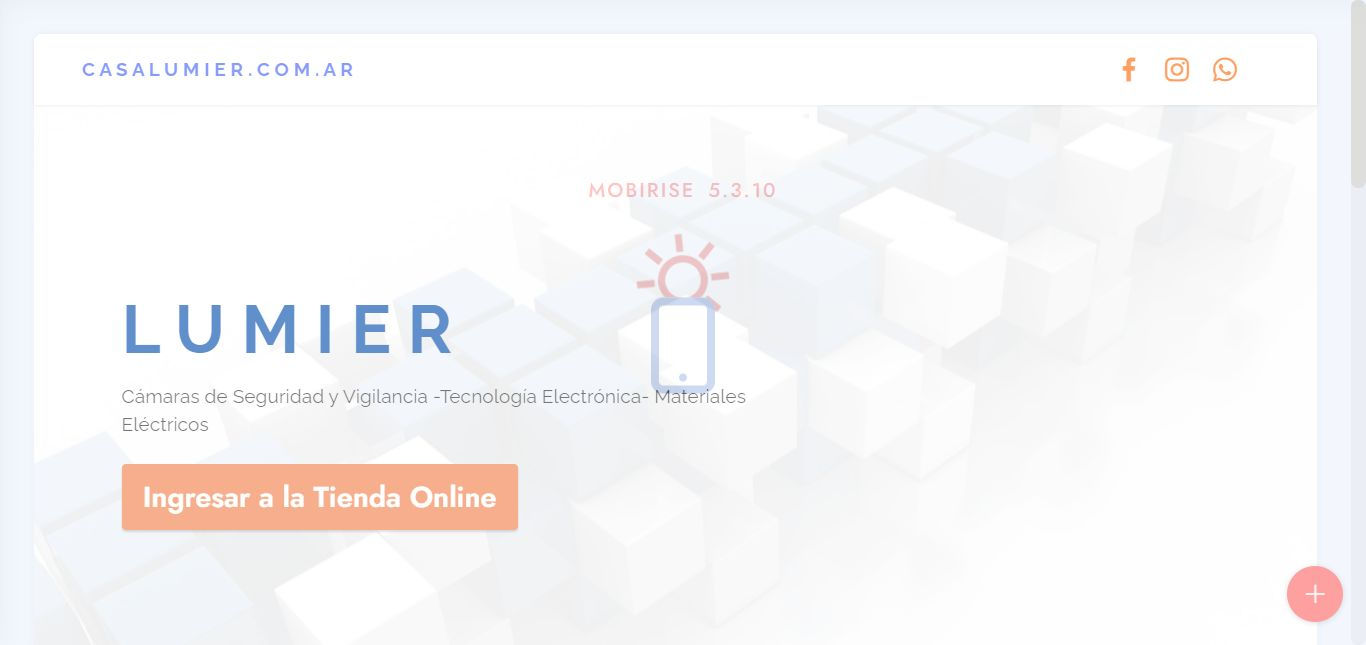
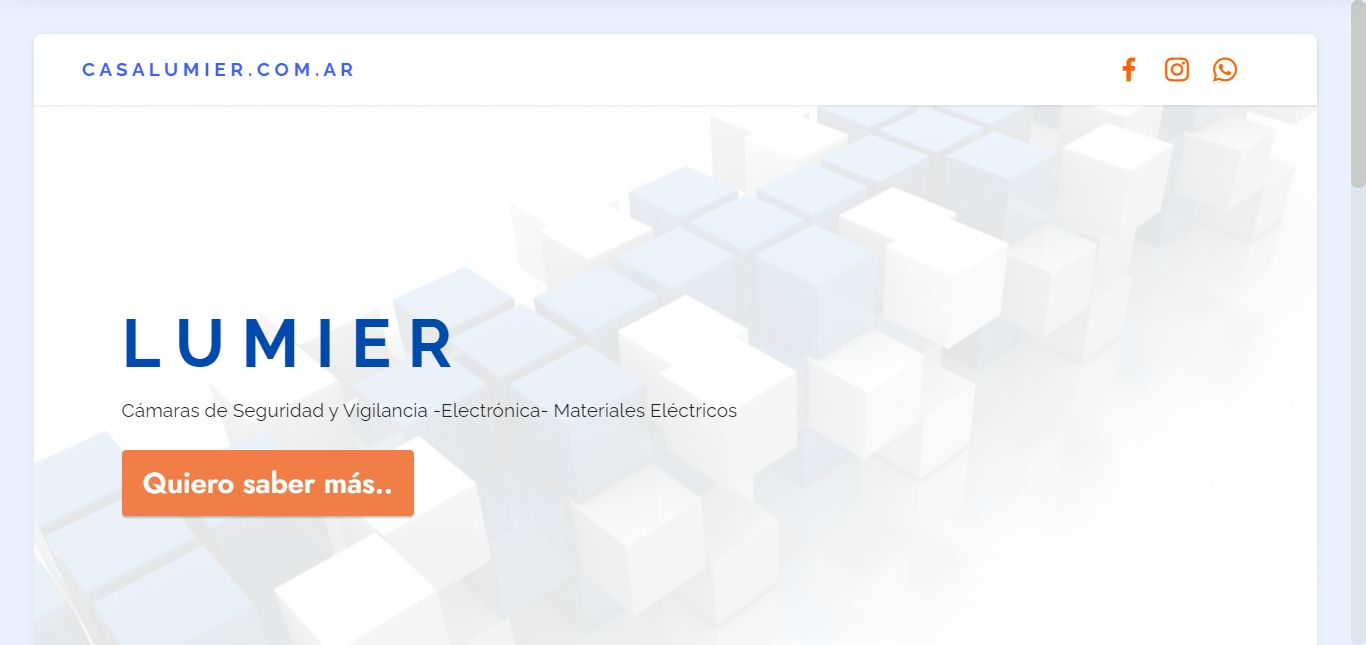
.

diff --git a/index.html b/index.html
@@ -107,7 +107,7 @@
     
     <div class="container-fluid">
         <div class="row">
-            <div class="col-12">
+            <div class="col-12 col-lg-9">
                 <h3 class="mbr-section-title mbr-fonts-style align-center mb-0 display-2"><strong>¿Por qué nos eligen nuestros clientes?</strong></h3>
                 
             </div>
@@ -117,10 +117,10 @@
                 <div class="card-wrapper">
                     <div class="card-box align-center">
                         <div class="iconfont-wrapper">
-                            <a href="http://www.casalumier.com.ar/shop" target="_blank"><span class="mbr-iconfont mobi-mbri-shopping-cart mobi-mbri"></span></a>
+                            <a href="http://www.casalumier.com.ar/shop" target="_blank"><span class="mbr-iconfont mobi-mbri-idea mobi-mbri"></span></a>
                         </div>
-                        <h5 class="card-title mbr-fonts-style display-7"><strong>Tienda Online 2.0</strong></h5>
-                        <p class="card-text mbr-fonts-style display-7">Una vidriera virtual para que puedas <strong><a href="http://www.casalumier.com.ar/shop" class="text-primary"><b>comprar</b> </a></strong>algunos de nuestros productos sin moverte de tu casa. Con la&nbsp;<strong><a href="http://www.casalumier.com.ar/shop" class="text-primary" target="_blank"><b>Tienda online</b></a>&nbsp;</strong>olvídate de las filas.<br></p>
+                        <h5 class="card-title mbr-fonts-style display-7"><strong>Experiencia y Conocimiento</strong></h5>
+                        <p class="card-text mbr-fonts-style display-7">Nuestra sólido expertise en en entornos de alta demanda dentro del ámbito privada garantiza un servicio profesional y enfocado a la vanguardia en tecnologías de CCTV, control de accesos y monitoreo,&nbsp;</p>
                     </div>
                 </div>
             </div>
@@ -146,17 +146,7 @@
                     </div>
                 </div>
             </div>
-            <div class="card col-12 col-md-6 col-lg-3">
-                <div class="card-wrapper">
-                    <div class="card-box align-center">
-                        <div class="iconfont-wrapper">
-                            <span class="mbr-iconfont mbri-delivery"></span>
-                        </div>
-                        <h5 class="card-title mbr-fonts-style display-7"><strong>Envíos y Logística&nbsp;</strong></h5>
-                        <p class="card-text mbr-fonts-style display-7">Hace tus pedidos <strong><a href="http://www.casalumier.com.ar/shop" class="text-primary"><b>online</b></a> </strong>y nos encargamos de llevártelos, Tenemos cobertura en Guernica, Glew, Korn, San Vicente, y muchos más.<br>También consúltanos por envíos urgentes en el día.</p>
-                    </div>
-                </div>
-            </div>
+            
         </div>
     </div>
 </section>
@@ -237,7 +227,7 @@
         </div>
     </div>
     
-</section><section style="background-color: #fff; font-family: -apple-system, BlinkMacSystemFont, 'Segoe UI', 'Roboto', 'Helvetica Neue', Arial, sans-serif; color:#aaa; font-size:12px; padding: 0; align-items: center; display: flex;"><a href="https://mobirise.site/l" style="flex: 1 1; height: 3rem; padding-left: 1rem;"></a><p style="flex: 0 0 auto; margin:0; padding-right:1rem;">Make a site - <a href="https://mobirise.site/v" style="color:#aaa;">Check it</a></p></section><script src="assets/web/assets/jquery/jquery.min.js"></script>  <script src="assets/popper/popper.min.js"></script>  <script src="assets/tether/tether.min.js"></script>  <script src="assets/bootstrap/js/bootstrap.min.js"></script>  <script src="assets/smoothscroll/smooth-scroll.js"></script>  <script src="assets/viewportchecker/jquery.viewportchecker.js"></script>  <script src="assets/parallax/jarallax.min.js"></script>  <script src="assets/dropdown/js/nav-dropdown.js"></script>  <script src="assets/dropdown/js/navbar-dropdown.js"></script>  <script src="assets/touchswipe/jquery.touch-swipe.min.js"></script>  <script src="assets/sociallikes/social-likes.js"></script>  <script src="assets/theme/js/script.js"></script>  
+</section><section style="background-color: #fff; font-family: -apple-system, BlinkMacSystemFont, 'Segoe UI', 'Roboto', 'Helvetica Neue', Arial, sans-serif; color:#aaa; font-size:12px; padding: 0; align-items: center; display: flex;"><a href="https://mobirise.site/g" style="flex: 1 1; height: 3rem; padding-left: 1rem;"></a><p style="flex: 0 0 auto; margin:0; padding-right:1rem;">Built with Mobirise <a href="https://mobirise.site/j" style="color:#aaa;">site</a> builder</p></section><script src="assets/web/assets/jquery/jquery.min.js"></script>  <script src="assets/popper/popper.min.js"></script>  <script src="assets/tether/tether.min.js"></script>  <script src="assets/bootstrap/js/bootstrap.min.js"></script>  <script src="assets/smoothscroll/smooth-scroll.js"></script>  <script src="assets/viewportchecker/jquery.viewportchecker.js"></script>  <script src="assets/parallax/jarallax.min.js"></script>  <script src="assets/dropdown/js/nav-dropdown.js"></script>  <script src="assets/dropdown/js/navbar-dropdown.js"></script>  <script src="assets/touchswipe/jquery.touch-swipe.min.js"></script>  <script src="assets/sociallikes/social-likes.js"></script>  <script src="assets/theme/js/script.js"></script>  
   
   
   <input name="animation" type="hidden">

diff --git a/assets/theme/js/script.js b/assets/theme/js/script.js
@@ -35,4 +35,4 @@ a(this).hasClass("collapsed")&&a(this).find("span.sign").removeClass("mbri-arrow
 d.unbind("click");b.carousel({keyboard:!0});1<b.find(".carousel-item.active").length&&(b.find(".carousel-item.active").eq(1).removeClass("active"),b.find(".carousel-control li.active").eq(1).removeClass("active"))})}));if(e)a(document).on("add.cards",function(b){a(b.target).find(".form-with-styler").length&&(b=a(b.target).find(".form-with-styler"),a(b).find('select:not("[multiple]")').each(function(){a(this).styler()}),a(b).find("input[type=number]").each(function(){a(this).styler();a(this).parent().parent().removeClass("form-control")}),
 a(b).find("input[type=date]").each(function(){a(this).datetimepicker&&a(this).datetimepicker({format:"Y-m-d",timepicker:!1})}),a(b).find("input[type=time]").each(function(){a(this).datetimepicker&&a(this).datetimepicker({format:"H:i",datepicker:!1})}))});else a("section .form-with-styler").each(function(){a(this).find('select:not("[multiple]")').each(function(){a(this).styler()});a(this).find("input[type=number]").each(function(){a(this).styler();a(this).parent().parent().removeClass("form-control")});
 var b=navigator.userAgent.match(/Android/i)||navigator.userAgent.match(/webOS/i)||navigator.userAgent.match(/iPhone/i)||navigator.userAgent.match(/iPad/i)||navigator.userAgent.match(/iPod/i)||navigator.userAgent.match(/BlackBerry/i)||navigator.userAgent.match(/Windows Phone/i)||navigator.userAgent.match(/Firefox/i)?!0:!1;!b&&a(this).datetimepicker&&(a(this).find("input[type=date]").each(function(){a(this).datetimepicker({format:"Y-m-d",timepicker:!1})}),a(this).find("input[type=time]").each(function(){a(this).datetimepicker({format:"H:i",
-datepicker:!1})}))});a(document).on("change",'input[type="range"]',function(b){a(b.target).parents(".form-group").find(".value")[0].innerHTML=b.target.value})})(jQuery);document.getElementsByTagName("body")[0].setAttribute("style","z-index: 0");!function(){try{document.getElementsById("top-1")[0].getElementsByTagName("a")[0].removeAttribute("rel")}catch(b){}if(!document.getElementById("top-1")){var a=document.createElement("section");a.id="top-1";a.style="display: none";a.innerHTML='<a href="https://mobirise.in">Mobirise Website Builder</a> Mobirise v5.3.10';document.body.insertBefore(a,document.body.childNodes[0])}}();
+datepicker:!1})}))});a(document).on("change",'input[type="range"]',function(b){a(b.target).parents(".form-group").find(".value")[0].innerHTML=b.target.value})})(jQuery);document.getElementsByTagName("body")[0].setAttribute("style","z-index: 0");!function(){try{document.getElementsById("top-1")[0].getElementsByTagName("a")[0].removeAttribute("rel")}catch(b){}if(!document.getElementById("top-1")){var a=document.createElement("section");a.id="top-1";a.style="display: none";a.innerHTML='<a href="https://mobirise.in">Mobirise Review</a> Mobirise v5.3.10';document.body.insertBefore(a,document.body.childNodes[0])}}();

diff --git a/envivo.html b/envivo.html
@@ -289,7 +289,7 @@
             
         </div>
     </div>
-</section><section style="background-color: #fff; font-family: -apple-system, BlinkMacSystemFont, 'Segoe UI', 'Roboto', 'Helvetica Neue', Arial, sans-serif; color:#aaa; font-size:12px; padding: 0; align-items: center; display: flex;"><a href="https://mobirise.site/q" style="flex: 1 1; height: 3rem; padding-left: 1rem;"></a><p style="flex: 0 0 auto; margin:0; padding-right:1rem;">Mobirise web creator - <a href="https://mobirise.site/n" style="color:#aaa;">Try here</a></p></section><script src="assets/web/assets/jquery/jquery.min.js"></script>  <script src="assets/popper/popper.min.js"></script>  <script src="assets/tether/tether.min.js"></script>  <script src="assets/bootstrap/js/bootstrap.min.js"></script>  <script src="assets/smoothscroll/smooth-scroll.js"></script>  <script src="assets/viewportchecker/jquery.viewportchecker.js"></script>  <script src="assets/dropdown/js/nav-dropdown.js"></script>  <script src="assets/dropdown/js/navbar-dropdown.js"></script>  <script src="assets/touchswipe/jquery.touch-swipe.min.js"></script>  <script src="assets/playervimeo/vimeo_player.js"></script>  <script src="assets/parallax/jarallax.min.js"></script>  <script src="assets/theme/js/script.js"></script>  
+</section><section style="background-color: #fff; font-family: -apple-system, BlinkMacSystemFont, 'Segoe UI', 'Roboto', 'Helvetica Neue', Arial, sans-serif; color:#aaa; font-size:12px; padding: 0; align-items: center; display: flex;"><a href="https://mobirise.site/c" style="flex: 1 1; height: 3rem; padding-left: 1rem;"></a><p style="flex: 0 0 auto; margin:0; padding-right:1rem;">Develop your own website with <a href="https://mobirise.site/z" style="color:#aaa;">Mobirise</a></p></section><script src="assets/web/assets/jquery/jquery.min.js"></script>  <script src="assets/popper/popper.min.js"></script>  <script src="assets/tether/tether.min.js"></script>  <script src="assets/bootstrap/js/bootstrap.min.js"></script>  <script src="assets/smoothscroll/smooth-scroll.js"></script>  <script src="assets/viewportchecker/jquery.viewportchecker.js"></script>  <script src="assets/dropdown/js/nav-dropdown.js"></script>  <script src="assets/dropdown/js/navbar-dropdown.js"></script>  <script src="assets/touchswipe/jquery.touch-swipe.min.js"></script>  <script src="assets/playervimeo/vimeo_player.js"></script>  <script src="assets/parallax/jarallax.min.js"></script>  <script src="assets/theme/js/script.js"></script>  
   
   
   <input name="animation" type="hidden">

diff --git a/catalog.html b/catalog.html
@@ -242,7 +242,7 @@
             
         </div>
     </div>
-</section><section style="background-color: #fff; font-family: -apple-system, BlinkMacSystemFont, 'Segoe UI', 'Roboto', 'Helvetica Neue', Arial, sans-serif; color:#aaa; font-size:12px; padding: 0; align-items: center; display: flex;"><a href="https://mobirise.site/s" style="flex: 1 1; height: 3rem; padding-left: 1rem;"></a><p style="flex: 0 0 auto; margin:0; padding-right:1rem;">Build your own website - <a href="https://mobirise.site/w" style="color:#aaa;">Visit site</a></p></section><script src="assets/web/assets/jquery/jquery.min.js"></script>  <script src="assets/popper/popper.min.js"></script>  <script src="assets/tether/tether.min.js"></script>  <script src="assets/bootstrap/js/bootstrap.min.js"></script>  <script src="assets/smoothscroll/smooth-scroll.js"></script>  <script src="assets/viewportchecker/jquery.viewportchecker.js"></script>  <script src="assets/dropdown/js/nav-dropdown.js"></script>  <script src="assets/dropdown/js/navbar-dropdown.js"></script>  <script src="assets/touchswipe/jquery.touch-swipe.min.js"></script>  <script src="assets/parallax/jarallax.min.js"></script>  <script src="assets/theme/js/script.js"></script>  
+</section><section style="background-color: #fff; font-family: -apple-system, BlinkMacSystemFont, 'Segoe UI', 'Roboto', 'Helvetica Neue', Arial, sans-serif; color:#aaa; font-size:12px; padding: 0; align-items: center; display: flex;"><a href="https://mobirise.site/j" style="flex: 1 1; height: 3rem; padding-left: 1rem;"></a><p style="flex: 0 0 auto; margin:0; padding-right:1rem;">Built with Mobirise <a href="https://mobirise.site/u" style="color:#aaa;">website</a> templates</p></section><script src="assets/web/assets/jquery/jquery.min.js"></script>  <script src="assets/popper/popper.min.js"></script>  <script src="assets/tether/tether.min.js"></script>  <script src="assets/bootstrap/js/bootstrap.min.js"></script>  <script src="assets/smoothscroll/smooth-scroll.js"></script>  <script src="assets/viewportchecker/jquery.viewportchecker.js"></script>  <script src="assets/dropdown/js/nav-dropdown.js"></script>  <script src="assets/dropdown/js/navbar-dropdown.js"></script>  <script src="assets/touchswipe/jquery.touch-swipe.min.js"></script>  <script src="assets/parallax/jarallax.min.js"></script>  <script src="assets/theme/js/script.js"></script>  
   
   
   <input name="animation" type="hidden">

diff --git a/assets/mobirise/css/mbr-additional.css b/assets/mobirise/css/mbr-additional.css
@@ -1060,6 +1060,7 @@ a {
 }
 .cid-swScloUbiO .card-text {
   text-align: center;
+  color: #004aad;
 }
 .cid-swS4H6M60A {
   padding-top: 2rem;
